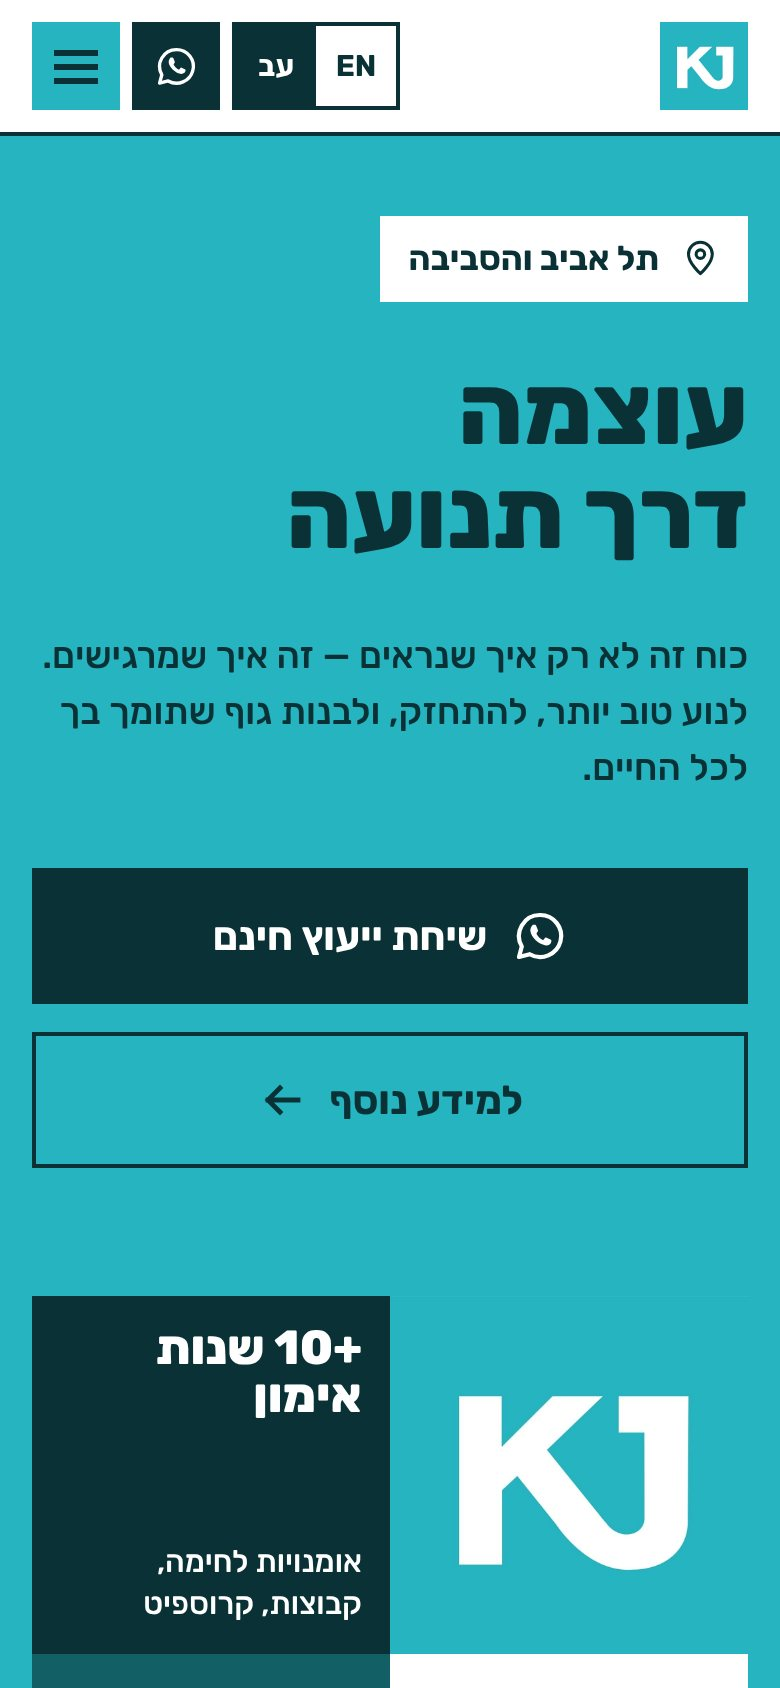
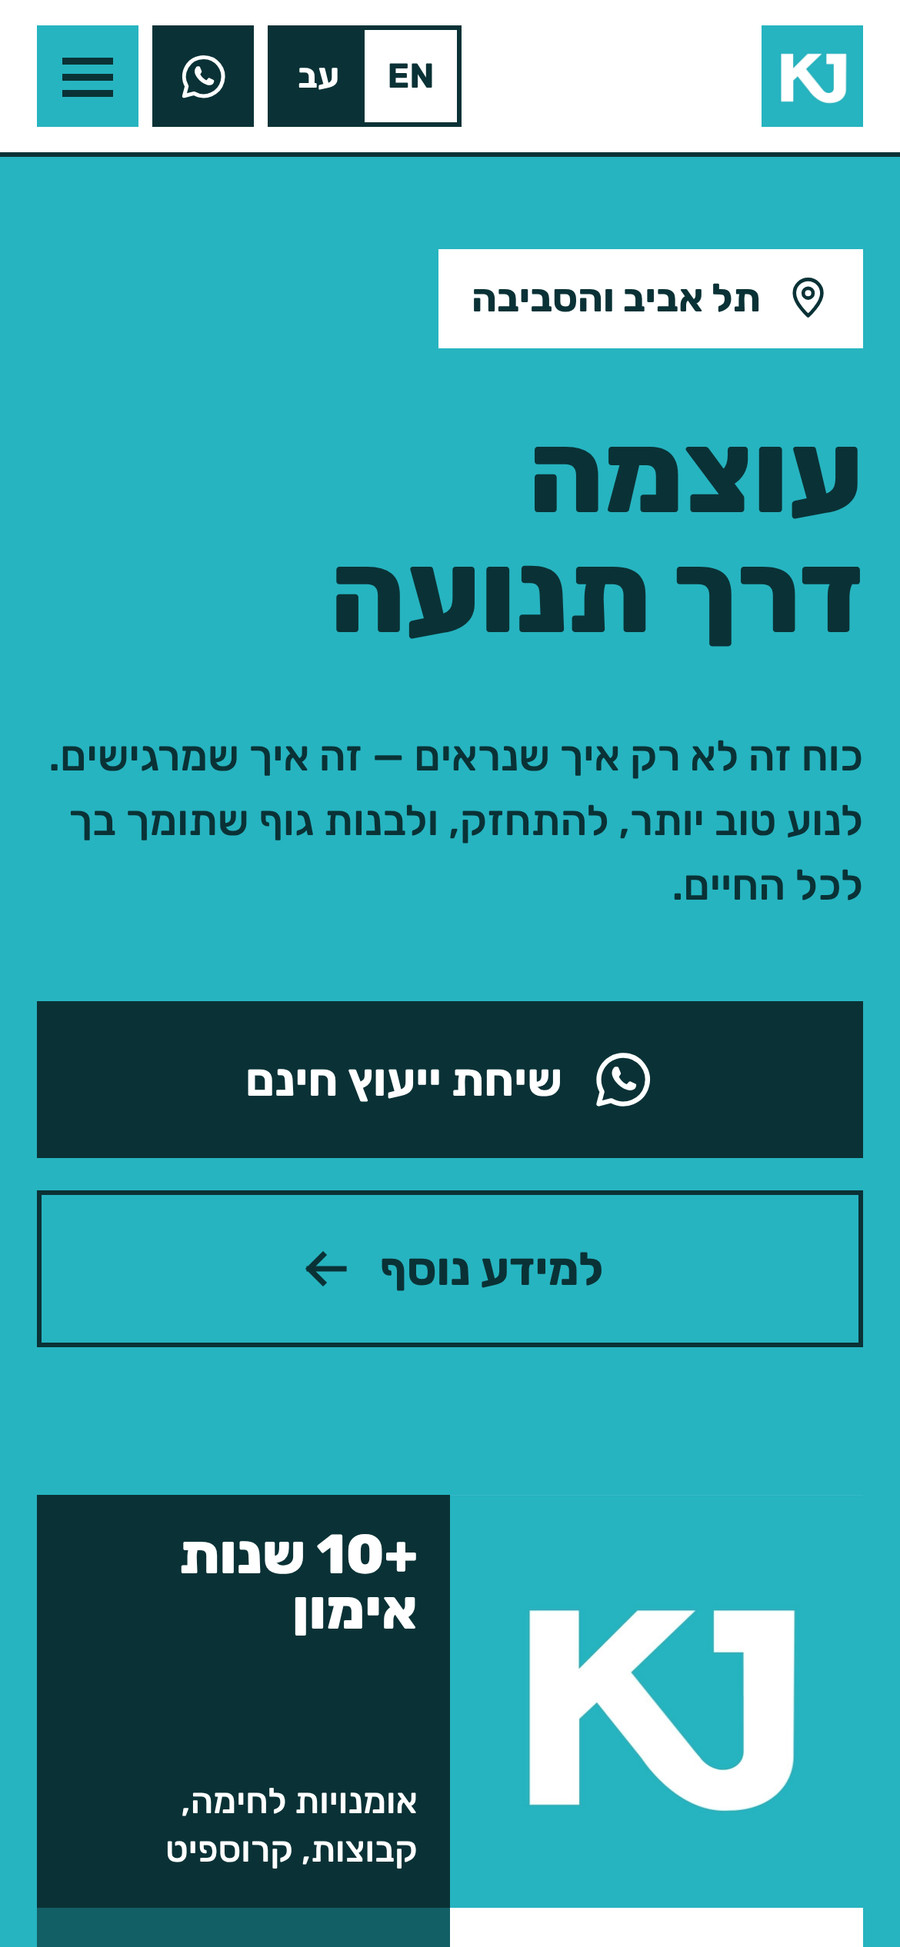
Replace Milometry screenshots with sharp captures of the current app
- New screenshots of the current 1.5 build (home with the quick-math
  button, flashcard front and back, levels, quick-math topics, a math
  round, streak, stats), captured at 3x and saved as 900px-wide
  full-chroma JPEGs so Hebrew text stays crisp.
- Milometry gallery becomes a 4x2 grid of the eight screens; the home
  card's second phone now shows quick math.
- KJ website captures re-shot at 3x (phone) and 2x (desktop).

Claude-Session: https://claude.ai/code/session_011i9zhCUAgTP5VCyYuQEkZY

diff --git a/milometry.html b/milometry.html
@@ -144,10 +144,10 @@
         @keyframes burst { to { transform: translate(var(--x), var(--y)) rotate(var(--r)); opacity: 0; } }
 
         /* ── Screens ── */
-        .screens { display: grid; grid-template-columns: repeat(5, 1fr); gap: clamp(12px, 2vw, 24px); align-items: start; }
+        .screens { display: grid; grid-template-columns: repeat(4, 1fr); row-gap: clamp(2rem, 4vw, 3rem); gap: clamp(12px, 2vw, 24px); align-items: start; }
         .screens figure { text-align: center; }
         .screens figure:nth-child(even) { margin-top: 48px; }
-        .screens .phone { margin: 0 auto 14px; max-width: 230px; transition: transform .5s var(--ease-out); }
+        .screens .phone { margin: 0 auto 14px; max-width: 250px; transition: transform .5s var(--ease-out); }
         .screens figure:hover .phone { transform: translateY(-10px) rotate(-1.5deg); }
         .screens figcaption { font-weight: 800; }
         .screens figcaption span { display: block; font-weight: 500; color: var(--muted); font-size: .9rem; }
@@ -195,7 +195,7 @@
         @media (max-width: 1000px) {
             .m-stats { grid-template-columns: repeat(3, 1fr); }
             .hood { grid-template-columns: repeat(2, 1fr); }
-            .screens { grid-template-columns: repeat(5, minmax(200px, 1fr)); overflow-x: auto; scroll-snap-type: x mandatory; padding-bottom: 12px; margin-inline: calc(var(--gut) * -1); padding-inline: var(--gut); }
+            .screens { grid-template-columns: repeat(8, minmax(200px, 1fr)); overflow-x: auto; scroll-snap-type: x mandatory; padding-bottom: 12px; margin-inline: calc(var(--gut) * -1); padding-inline: var(--gut); }
             .screens figure { scroll-snap-align: center; }
         }
         @media (max-width: 860px) {
@@ -267,7 +267,7 @@
                 <div class="m-stage reveal zoom" style="--i:1">
                     <div class="m-bubble a" aria-hidden="true"></div>
                     <div class="m-bubble b" aria-hidden="true"></div>
-                    <div class="phone"><img src="images/milometry/1_home.jpeg" alt="Milometry home screen: Hebrew and English decks, a streak counter and the Mili mascot"></div>
+                    <div class="phone"><img src="images/milometry/home.jpg" alt="Milometry home screen: Hebrew, English and quick-math decks, a streak counter, XP level and the Mili mascot"></div>
                     <div class="mili-wrap" aria-hidden="true">
                         <div class="mili"><div class="body"></div><div class="ear"></div><div class="eye l"></div><div class="eye r"></div><div class="blush l"></div><div class="blush r"></div><div class="mouth"></div><div class="shadow"></div></div>
                         <div class="speech"><span class="en">Every new word — one more point on the psychometric 🎯</span><span class="he">כל מילה חדשה — עוד נקודה בפסיכומטרי 🎯</span></div>
@@ -367,13 +367,17 @@
                 <div class="section-head">
                     <p class="eyebrow reveal"><span class="en">Inside the app</span><span class="he">בתוך האפליקציה</span></p>
                     <h2 class="h-section reveal" style="--i:1"><span class="en">Warm, playful, <em>right-to-left.</em></span><span class="he">חמה, שובבה, <em>מימין לשמאל.</em></span></h2>
+                    <p class="lede reveal" style="--i:2"><span class="en">Captured from the current 1.5 build: vocabulary, quick math, streaks and stats.</span><span class="he">צילומים מהגרסה הנוכחית, 1.5: אוצר מילים, חשבון מהיר, רצפים וסטטיסטיקות.</span></p>
                 </div>
                 <div class="screens" data-stagger>
-                    <figure><div class="phone"><img src="images/milometry/1_home.jpeg" alt="Home screen" loading="lazy"></div><figcaption><span class="en">Home</span><span class="he">בית</span><span><span class="en">Pick a language, keep the streak</span><span class="he">בוחרים שפה, שומרים על הרצף</span></span></figcaption></figure>
-                    <figure><div class="phone"><img src="images/milometry/2_practice.jpeg" alt="Practice card with three self-grading buttons" loading="lazy"></div><figcaption><span class="en">Practice</span><span class="he">תרגול</span><span><span class="en">Three honest buttons</span><span class="he">שלושה כפתורים כנים</span></span></figcaption></figure>
-                    <figure><div class="phone"><img src="images/milometry/3_levels.jpeg" alt="Five difficulty levels" loading="lazy"></div><figcaption><span class="en">Levels</span><span class="he">רמות</span><span><span class="en">Five tiers, basic → extreme</span><span class="he">חמש רמות, מבסיסי לקיצוני</span></span></figcaption></figure>
-                    <figure><div class="phone"><img src="images/milometry/4_streak.jpeg" alt="Streak screen" loading="lazy"></div><figcaption><span class="en">Streak</span><span class="he">רצף</span><span><span class="en">Daily goal and a 7-day view</span><span class="he">יעד יומי ותצוגת שבוע</span></span></figcaption></figure>
-                    <figure><div class="phone"><img src="images/milometry/5_stats.jpeg" alt="Statistics screen" loading="lazy"></div><figcaption><span class="en">Stats</span><span class="he">סטטיסטיקות</span><span><span class="en">Progress per language</span><span class="he">התקדמות לפי שפה</span></span></figcaption></figure>
+                    <figure><div class="phone"><img src="images/milometry/home.jpg" alt="Home screen" loading="lazy"></div><figcaption><span class="en">Home</span><span class="he">בית</span><span><span class="en">Three decks, streak and XP</span><span class="he">שלוש חפיסות, רצף ו-XP</span></span></figcaption></figure>
+                    <figure><div class="phone"><img src="images/milometry/practice-front.jpg" alt="Flashcard, front" loading="lazy"></div><figcaption><span class="en">Practice</span><span class="he">תרגול</span><span><span class="en">The word, with pronunciation</span><span class="he">המילה, עם הגייה</span></span></figcaption></figure>
+                    <figure><div class="phone"><img src="images/milometry/practice.jpg" alt="Flashcard, back, with three self-grading buttons" loading="lazy"></div><figcaption><span class="en">Flip</span><span class="he">היפוך</span><span><span class="en">Meaning, example, three honest buttons</span><span class="he">פירוש, דוגמה ושלושה כפתורים כנים</span></span></figcaption></figure>
+                    <figure><div class="phone"><img src="images/milometry/levels.jpg" alt="Five difficulty levels with progress" loading="lazy"></div><figcaption><span class="en">Levels</span><span class="he">רמות</span><span><span class="en">Five tiers, basic → extreme</span><span class="he">חמש רמות, מבסיסי לקיצוני</span></span></figcaption></figure>
+                    <figure><div class="phone"><img src="images/milometry/math-topics.jpg" alt="Quick math topics with three difficulty levels each" loading="lazy"></div><figcaption><span class="en">Quick math</span><span class="he">חשבון מהיר</span><span><span class="en">Seven topics, three levels each</span><span class="he">שבעה נושאים, שלוש רמות לכל אחד</span></span></figcaption></figure>
+                    <figure><div class="phone"><img src="images/milometry/math-question.jpg" alt="Quick math question with answer feedback and a solving tip" loading="lazy"></div><figcaption><span class="en">Math round</span><span class="he">סבב חשבון</span><span><span class="en">Instant feedback and the fast way</span><span class="he">משוב מיידי והדרך המהירה</span></span></figcaption></figure>
+                    <figure><div class="phone"><img src="images/milometry/streak.jpg" alt="Streak screen" loading="lazy"></div><figcaption><span class="en">Streak</span><span class="he">רצף</span><span><span class="en">Daily goals and a 7-day view</span><span class="he">יעדים יומיים ותצוגת שבוע</span></span></figcaption></figure>
+                    <figure><div class="phone"><img src="images/milometry/stats.jpg" alt="Statistics screen" loading="lazy"></div><figcaption><span class="en">Stats</span><span class="he">סטטיסטיקות</span><span><span class="en">Progress per language</span><span class="he">התקדמות לפי שפה</span></span></figcaption></figure>
                 </div>
             </div>
         </section>

diff --git a/projects.html b/projects.html
@@ -104,13 +104,13 @@
         <section class="section" style="padding-top:0">
             <div class="wrap">
                 <div class="rows" data-stagger>
-                    <a class="prow r-milo" href="milometry.html" data-preview="images/milometry/2_practice.jpeg">
+                    <a class="prow r-milo" href="milometry.html" data-preview="images/milometry/practice.jpg">
                         <span class="n">01</span>
                         <h2><span class="en">Milometry</span><span class="he">מילומטרי</span></h2>
                         <span class="kind"><span class="en">Mobile app · solo</span><span class="he">אפליקציה · עבודת יחיד</span><small><span class="en">Live on Google Play &amp; App Store</span><span class="he">באוויר ב-Google Play וב-App Store</span></small></span>
                         <span class="stack"><span>Flutter</span><span>Firebase</span><span>IAP</span></span>
                         <span class="go" aria-hidden="true">→</span>
-                        <span class="thumb"><img src="images/milometry/2_practice.jpeg" alt="" loading="lazy"></span>
+                        <span class="thumb"><img src="images/milometry/practice.jpg" alt="" loading="lazy"></span>
                     </a>
                     <a class="prow r-kjapp" href="kj-fitness.html#app" data-preview="images/kj/training.jpg">
                         <span class="n">02</span>
@@ -142,7 +142,7 @@
     </main>
 
     <div class="preview-layer" aria-hidden="true"><div class="preview">
-        <img src="images/milometry/2_practice.jpeg" alt="">
+        <img src="images/milometry/practice.jpg" alt="">
         <img src="images/kj/training.jpg" alt="">
         <img src="images/kj/kj-web-mobile.jpg" alt="">
         <div class="lab-art"></div>

diff --git a/index.html b/index.html
@@ -276,8 +276,8 @@
                         </div>
                         <div class="work-visual" aria-hidden="true">
                             <div class="bubble"></div>
-                            <div class="phone p1"><img src="images/milometry/1_home.jpeg" alt="" loading="lazy"></div>
-                            <div class="phone p2"><img src="images/milometry/3_levels.jpeg" alt="" loading="lazy"></div>
+                            <div class="phone p1"><img src="images/milometry/home.jpg" alt="" loading="lazy"></div>
+                            <div class="phone p2"><img src="images/milometry/math-topics.jpg" alt="" loading="lazy"></div>
                         </div>
                     </a>
 

diff --git a/README.md b/README.md
@@ -24,4 +24,7 @@ Shared code lives in `assets/site.css` (tokens, header, reveals) and `assets/sit
 
 ## Images
 
-The Milometry screenshots and KJ assets are copies stored in `images/`. The `milometry` repo is private, so hotlinking its files would show broken images to visitors. The KJ website shots were captured from the live site.
+All images are stored in `images/`. Nothing is hotlinked: the `milometry` repo is private, so its files would show as broken images to visitors.
+
+- **Milometry screenshots:** captured from the app's web build at 3× density (iPhone-sized viewport, 393×852 CSS px), with demo progress seeded. They're saved as 900px-wide JPEGs at quality 90 with full chroma (`subsampling=0`), which keeps the Hebrew text crisp.
+- **KJ website shots:** captured from the site at 3× (phone) and 2× (desktop).
